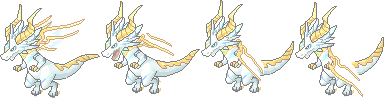
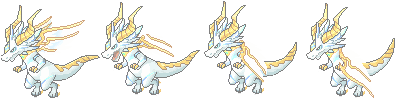
fix frame pet, fix enchant wing, duplicate mob when boss init

diff --git a/Server/GameController.cs b/Server/GameController.cs
@@ -1021,6 +1021,9 @@ public class GameController
             case GopetCMD.WING:
                 {
                     sbyte type = message.readsbyte();
+#if DEBUG_LOG
+                    GopetManager.ServerMonitor.LogWarning($"Message cánh: {type}");
+#endif
                     switch (type)
                     {
                         case GopetCMD.WING_TYPE_INVENTORY:
@@ -1237,8 +1240,8 @@ public class GameController
         if (indexWing == -1) wingItem = player.playerData.wing;
         else
         {
-            var wingInventory = player.playerData[GopetManager.WING_INVENTORY];
-            if (indexWing <= 0 && wingInventory.Count > indexWing)
+            var wingInventory = player.playerData.getInventoryOrCreate(GopetManager.WING_INVENTORY);
+            if (indexWing >= 0 && wingInventory.Count > indexWing)
             {
                 wingItem = wingInventory[indexWing];
             }

diff --git a/Place/GopetPlace.cs b/Place/GopetPlace.cs
@@ -609,7 +609,7 @@ public class GopetPlace : Place
                                 nGopetMobs.add(boss);
                                 PlayerManager.showBanner((l) => string.Format(l.BannerLanguage[LanguageData.BANNER_SHOW_BOSS_SUMMON], boss.Template.name, this.map.mapTemplate.name, this.zoneID));
                                 numMobDie[i] = 0;
-                                continue;
+                                goto END_INIT_MOB;
                             }
                         }
                     }
@@ -631,6 +631,7 @@ public class GopetPlace : Place
                     {
                         numMobDie[i]++;
                     }
+                END_INIT_MOB:;
                 }
                 sendMob(nGopetMobs);
             }

diff --git a/Language/LanguageData.cs b/Language/LanguageData.cs
@@ -29,7 +29,7 @@ namespace Gopet.Language
         public Dictionary<int, string> BannerLanguage { get; set; } = new Dictionary<int, string>() 
         {
             [BANNER_SHOW_ARENA_EVENT_BANNER] = "Các người chơi nhanh chóng đến đấu trường báo danh tham gia lôi đài còn {0} phút nữa bắt đầu rồi!!! ",
-            [BANNER_SHOW_BOSS_SUMMON] = "Boss {0} đã xuất hiện tại {1} khu %s nhanh tay lên nào!!!!",
+            [BANNER_SHOW_BOSS_SUMMON] = "Boss {0} đã xuất hiện tại {1} khu {2} nhanh tay lên nào!!!!",
             [BANNER_MANTENANCE_MESSAGE] = "Sau {0} phút nữa sẽ bảo trì, các người chơi vui lòng thoát game sớm tránh bị mất dữ liệu",
         };
 

diff --git a/Server/MenuController.answerYesNo.cs b/Server/MenuController.answerYesNo.cs
@@ -107,7 +107,7 @@ public partial class MenuController
                                                 }
                                                 else
                                                 {
-                                                    wingItem.lvl += enchantWingData.NumDropLevelWing;
+                                                    wingItem.lvl -= enchantWingData.NumDropLevelWing;
                                                     player.getPet()?.applyInfo(player);
                                                     player.redDialog(string.Format(player.Language.EnchantWingFail, enchantWingData.NumDropLevelWing));
                                                 }

diff --git a/Server/MenuController.selectMenu.cs b/Server/MenuController.selectMenu.cs
@@ -1520,7 +1520,7 @@ public partial class MenuController
                             player.controller.showInputDialog(INPUT_TYPE_NAME_BUFF_ENCHANT_TATTOO, "Buff cường hóa xăm", new String[] { "Tên nhân vật :" });
                             break;
                         case ADMIN_INDEX_PLAYER_LOCATION:
-                            player.okDialog($"{player.playerData.x}|{player.playerData.y}");
+                            player.okDialog($"{player.playerData.x}|{player.playerData.y}   zone {place.zoneID}  map {place.map.mapID}");
                             break;
                     }
                 }

diff --git a/Server/MenuController.sendMenu.cs b/Server/MenuController.sendMenu.cs
@@ -289,6 +289,10 @@ public partial class MenuController
                             player.controller.sendListOption(MENU_SELECT_MONEY_TO_PAY_FOR_ENCHANT_WING, player.Language.PayForEnchantWing, "", list);
                         }
                     }
+                    else
+                    {
+                        throw new NullReferenceException("Tml nào bug index cánh");
+                    }
                 }
                 break;
             case MENU_OPTION_TASK:

diff --git a/Data/item/Item.cs b/Data/item/Item.cs
@@ -370,7 +370,7 @@ namespace Gopet.Data.GopetItem
             {
                 return getTemp().getName(player) + " x" + count + (canTrade ? "" : player.Language.LockItemDescrption);
             }
-            if (Template.type == GopetManager.WING_INVENTORY)
+            if (Template.type == GopetManager.WING_ITEM)
             {
                 return getTemp().getName(player) + player.Language.level + lvl + (canTrade ? "" : player.Language.LockItemDescrption);
             }
